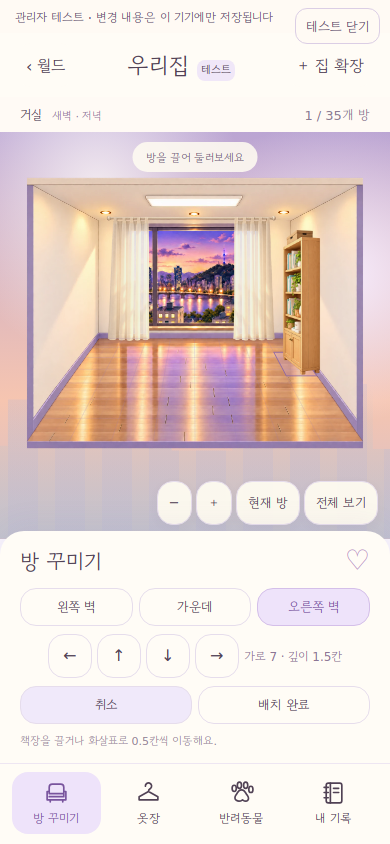
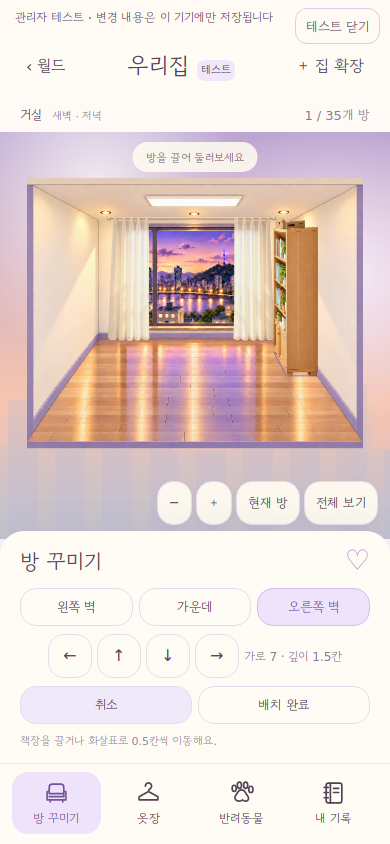
Project bookshelf ground-contact edges onto the floor grid

Changed region(s): [[0.6769, 0.2464, 0.8308, 0.4621]]

diff --git a/house-test/style.css b/house-test/style.css
@@ -3,6 +3,6 @@
 .expansion-actions{grid-template-columns:repeat(4,1fr);margin-top:10px}.expansion-actions button{font-size:12px;min-height:44px;padding:6px}.row select{max-width:100%;padding:8px 12px;border:1px solid #e0d4e9;border-radius:12px;background:#fffdfa;color:#65526f;min-height:44px}.closet-preview p{white-space:pre-line}
 .symbol svg{display:block;margin:auto;width:28px;height:28px}nav svg{display:block;margin:auto;width:25px;height:25px}.dog:focus-visible{outline-offset:6px;border-radius:30px}
 /* Approved compact apartment, 8 × 7 cells. */
-#world{width:7075px;height:8288px}.room{width:1375px;height:1144px;outline:0;border-radius:0;background:transparent;box-shadow:none;overflow:visible}.room.selected{box-shadow:none}.room-bg{object-fit:contain;clip-path:inset(29px 17px 33px 17px)}.room.empty:before,.room.empty:after{display:none}.curtains{position:absolute;left:252px;top:156px;width:840px;height:560px;pointer-events:none;z-index:2}.bookshelf{position:absolute;overflow:hidden;transform-origin:0 0;border:0;border-radius:0;padding:0;min-height:0;background:transparent!important;touch-action:none;filter:drop-shadow(0 5px 4px #45322920)}.bookshelf img{position:absolute;width:1536px;height:1024px;max-width:none;pointer-events:none}.bookshelf:disabled{opacity:1}.bookshelf:focus-visible{outline:4px solid #b297c9;outline-offset:8px}.floor-grid{position:absolute;inset:0;width:1375px;height:1144px;z-index:3;pointer-events:none}.floor-grid path{fill:none;stroke:#9a79b7;stroke-width:2;opacity:.35}.floor-grid path.half{stroke-width:1;opacity:.22}.floor-grid polygon{fill:#c4a0e64a;stroke:#8560a8;stroke-width:3}.actor{bottom:192px;z-index:1100}.ball{bottom:192px;z-index:1101}.heart{bottom:300px;z-index:1102}.expansion{width:1375px;height:1082px;top:29px}.directions{display:flex;gap:6px;margin-bottom:8px}.directions button{flex:1;min-height:38px;padding:6px;font-size:13px}.move-controls{display:flex;align-items:center;justify-content:center;gap:5px;flex-wrap:wrap;margin-bottom:8px}.move-controls button{min-width:44px}.position{font-size:12px;color:#8d7694}.panel-note{font-size:11px}#period-name{color:#937b9d;font-size:11px}.scene-heading{background:#fffaf5}.panel-head small{display:none}.panel-head{margin-bottom:10px}#panel{padding-top:13px;padding-bottom:13px}#hint{top:10px;font-size:11px}.camera{bottom:14px}html[data-period=dusk] #viewport{background:linear-gradient(#bba5d3,#f6c5b0 66%,#d0becb)}html[data-period=night] #viewport{background:linear-gradient(#30344f,#686087 68%,#494e6a)}html[data-period=night] .curtains,html[data-period=night] .bookshelf{filter:brightness(.76) saturate(.8)}html[data-period=dusk] .curtains,html[data-period=dusk] .bookshelf{filter:sepia(.12) brightness(.95)}
+#world{width:7075px;height:8288px}.room{width:1375px;height:1144px;outline:0;border-radius:0;background:transparent;box-shadow:none;overflow:visible}.room.selected{box-shadow:none}.room-bg{object-fit:contain;clip-path:inset(29px 17px 33px 17px)}.room.empty:before,.room.empty:after{display:none}.curtains{position:absolute;left:252px;top:156px;width:840px;height:560px;pointer-events:none;z-index:2}.bookshelf{position:absolute;overflow:visible;transform-origin:0 0;border:0;border-radius:0;padding:0;min-height:0;background:transparent!important;touch-action:none;filter:drop-shadow(0 5px 4px #45322920)}.bookshelf img{position:absolute;left:0;top:0;width:1536px;height:1024px;max-width:none;pointer-events:none;transform-origin:0 0}.bookshelf:disabled{opacity:1}.bookshelf:focus-visible{outline:4px solid #b297c9;outline-offset:8px}.floor-grid{position:absolute;inset:0;width:1375px;height:1144px;z-index:3;pointer-events:none}.floor-grid path{fill:none;stroke:#9a79b7;stroke-width:2;opacity:.35}.floor-grid path.half{stroke-width:1;opacity:.22}.floor-grid polygon{fill:#c4a0e64a;stroke:#8560a8;stroke-width:3}.actor{bottom:192px;z-index:1100}.ball{bottom:192px;z-index:1101}.heart{bottom:300px;z-index:1102}.expansion{width:1375px;height:1082px;top:29px}.directions{display:flex;gap:6px;margin-bottom:8px}.directions button{flex:1;min-height:38px;padding:6px;font-size:13px}.move-controls{display:flex;align-items:center;justify-content:center;gap:5px;flex-wrap:wrap;margin-bottom:8px}.move-controls button{min-width:44px}.position{font-size:12px;color:#8d7694}.panel-note{font-size:11px}#period-name{color:#937b9d;font-size:11px}.scene-heading{background:#fffaf5}.panel-head small{display:none}.panel-head{margin-bottom:10px}#panel{padding-top:13px;padding-bottom:13px}#hint{top:10px;font-size:11px}.camera{bottom:14px}html[data-period=dusk] #viewport{background:linear-gradient(#bba5d3,#f6c5b0 66%,#d0becb)}html[data-period=night] #viewport{background:linear-gradient(#30344f,#686087 68%,#494e6a)}html[data-period=night] .curtains,html[data-period=night] .bookshelf{filter:brightness(.76) saturate(.8)}html[data-period=dusk] .curtains,html[data-period=dusk] .bookshelf{filter:sepia(.12) brightness(.95)}
 @media(min-width:900px){#app{max-width:1050px}.room-bg{filter:drop-shadow(0 15px 20px #49385320)}}
 @media(max-height:550px) and (min-width:600px){.directions{margin:0 0 4px}.directions button{min-height:30px;font-size:11px}.move-controls{margin:3px 0}.move-controls button{min-height:30px;padding:3px}.position{font-size:10px}}

diff --git a/house-test/app.js b/house-test/app.js
@@ -1,5 +1,6 @@
-import {icon} from './icons.js?v=20261001-4';
-import {normalize,roomKey,canAdd,normalizeShelf,shelfSize,floorPoint,floorCell,roomPeriod,ROOM} from './model.js?v=20261001-4';
+import {icon} from './icons.js?v=20261001-5';
+import {normalize,roomKey,canAdd,normalizeShelf,shelfSize,floorPoint,floorCell,roomPeriod,ROOM} from './model.js?v=20261001-5';
+import {renderShelf} from './furniture.js?v=20261001-5';
 const $=s=>document.querySelector(s),view=$('#viewport'),world=$('#world');
 const stepX=ROOM.width+40,stepY=ROOM.height+40,reduced=matchMedia('(prefers-reduced-motion: reduce)').matches;
 let state,port,key,initialized=false,selected='0:0',tab='room',expanding=false,scale=1,pan={x:0,y:0},actorX=420,dogX=700,follow=false,raf=0,motion=null,timer,saveFailed=false;
@@ -59,9 +60,8 @@ function updatePeriod(){const next=roomPeriod();document.documentElement.dataset
 function startPlacement(){editing=true;draft={...(current().shelf||{x:7,y:1.5,direction:'right'})};renderWorld();renderPanel();}
 function finishPlacement(commit){if(commit){current().shelf={...draft};save();}editing=false;draft=null;renderWorld();renderPanel();toast(commit?'책장을 배치했어요.':'이전 배치로 돌아왔어요.');}
 function moveShelf(dx,dy){draft=normalizeShelf({...draft,x:draft.x+dx,y:draft.y+dy});renderWorld();renderPanel();}
-const crops={left:{x:210,y:26,w:240,h:928},center:{x:614,y:32,w:308,h:900},right:{x:1084,y:24,w:244,h:932}};
-function shelfStyle(button,s){const {w,d}=shelfSize(s.direction),foot=floorPoint(s.x+w/2,s.y+d),c=crops[s.direction],height=510+((s.y+d)/7)*150,ratio=height/c.h;button.style.left=(foot.x-c.w*ratio/2)+'px';button.style.top=(foot.y-height)+'px';button.style.width=c.w+'px';button.style.height=c.h+'px';button.style.transform=`scale(${ratio})`;button.style.zIndex=String(10+Math.round(foot.y));button.dataset.x=s.x;button.dataset.y=s.y;button.dataset.direction=s.direction;const im=button.querySelector('img');im.style.left=-c.x+'px';im.style.top=-c.y+'px';}
-function makeShelf(s,active){const button=element('button','bookshelf');button.type='button';button.setAttribute('aria-label','책장 배치 변경');button.disabled=!active||expanding;const im=element('img');im.src='assets/bookshelf-views.webp';im.alt='원목 책장';im.draggable=false;button.append(im);shelfStyle(button,s);button.onclick=()=>{if(!editing){setTab('room');startPlacement();}};if(active)button.addEventListener('pointerdown',e=>{if(!editing||e.button>0)return;e.stopPropagation();const start=point(e),original={...draft},b=bounds(current()),{w,d}=shelfSize(draft.direction),anchor=floorPoint(draft.x+w/2,draft.y+d),startCell=floorCell(anchor.x,anchor.y);button.setPointerCapture(e.pointerId);
+const shelfStyle=renderShelf;
+function makeShelf(s,active){const button=element('button','bookshelf');button.type='button';button.setAttribute('aria-label','책장 배치 변경');button.disabled=!active||expanding;shelfStyle(button,s);button.onclick=()=>{if(!editing){setTab('room');startPlacement();}};if(active)button.addEventListener('pointerdown',e=>{if(!editing||e.button>0)return;e.stopPropagation();const start=point(e),original={...draft},b=bounds(current()),{w,d}=shelfSize(draft.direction),anchor=floorPoint(draft.x+w/2,draft.y+d),startCell=floorCell(anchor.x,anchor.y);button.setPointerCapture(e.pointerId);
  const drag=ev=>{const p=point(ev),cell=floorCell(anchor.x+(p.x-start.x)/scale,anchor.y+(p.y-start.y)/scale);draft=normalizeShelf({...original,x:original.x+cell.x-startCell.x,y:original.y+cell.y-startCell.y});shelfStyle(button,draft);const grid=button.parentElement.querySelector('.floor-grid');if(grid)grid.replaceWith(makeGrid(draft));$('#shelf-position').textContent=`가로 ${draft.x} · 깊이 ${draft.y}칸`;};
  const up=ev=>{button.removeEventListener('pointermove',drag);button.removeEventListener('pointerup',up);button.removeEventListener('pointercancel',cancel);if(button.hasPointerCapture(ev.pointerId))button.releasePointerCapture(ev.pointerId);};const cancel=ev=>{draft=original;shelfStyle(button,draft);up(ev);renderWorld();renderPanel();};button.addEventListener('pointermove',drag);button.addEventListener('pointerup',up);button.addEventListener('pointercancel',cancel);
  });return button;}

diff --git a/house-test/furniture.js b/house-test/furniture.js
@@ -1,0 +1,61 @@
+import {floorPoint,roomPoint,shelfSize} from './model.js?v=20261001-5';
+
+// Contact corners are measured on the approved atlas, excluding transparent
+// padding. Each wooden plane is projected separately so verticals stay upright
+// while both bottom edges follow the room's perspective at every placement.
+const atlas={
+ left:[
+  {source:[[216,94],[330,73],[330,946],[216,935]],clip:[[210,26],[330,26],[330,954],[210,954]],corners:[3,2]},
+  {source:[[330,73],[442,121],[442,853],[330,946]],clip:[[330,26],[450,26],[450,954],[330,954]],corners:[2,1]}
+ ],
+ center:[
+  {source:[[620,94],[916,94],[916,922],[620,922]],clip:[[614,32],[922,32],[922,932],[614,932]],corners:[3,2]}
+ ],
+ right:[
+  {source:[[1092,121],[1206,73],[1206,946],[1092,853]],clip:[[1084,24],[1206,24],[1206,956],[1084,956]],corners:[0,3]},
+  {source:[[1206,73],[1320,94],[1320,935],[1206,946]],clip:[[1206,24],[1328,24],[1328,956],[1206,956]],corners:[3,2]}
+ ]
+};
+export function projectiveMap(source,target){
+ const rows=[];
+ for(let i=0;i<4;i++){
+  const [x,y]=source[i],{x:u,y:v}=target[i];
+  rows.push([x,y,1,0,0,0,-u*x,-u*y,u],[0,0,0,x,y,1,-v*x,-v*y,v]);
+ }
+ for(let col=0;col<8;col++){
+  let pivot=col;for(let row=col+1;row<8;row++)if(Math.abs(rows[row][col])>Math.abs(rows[pivot][col]))pivot=row;
+  [rows[col],rows[pivot]]=[rows[pivot],rows[col]];
+  const divisor=rows[col][col];if(Math.abs(divisor)<1e-10)return null;
+  for(let j=col;j<=8;j++)rows[col][j]/=divisor;
+  for(let row=0;row<8;row++)if(row!==col){const factor=rows[row][col];for(let j=col;j<=8;j++)rows[row][j]-=factor*rows[col][j];}
+ }
+ return [...rows.map(row=>row[8]),1];
+}
+export function transformPoint(m,[x,y]){const w=m[6]*x+m[7]*y+m[8];return {x:(m[0]*x+m[1]*y+m[2])/w,y:(m[3]*x+m[4]*y+m[5])/w};}
+export function cssMatrix(m){return `matrix3d(${[m[0],m[3],0,m[6],m[1],m[4],0,m[7],0,0,1,0,m[2],m[5],0,m[8]].join(',')})`;}
+export function shelfGeometry(s){
+ const {w,d}=shelfSize(s.direction),cells=[[s.x,s.y],[s.x+w,s.y],[s.x+w,s.y+d],[s.x,s.y+d]];
+ const footprint=cells.map(([x,y])=>floorPoint(x,y)),top=cells.map(([x,y])=>roomPoint(x,y,4.8));
+ const faces=atlas[s.direction].map(face=>{
+  const [a,b]=face.corners,target=[top[a],top[b],footprint[b],footprint[a]];
+  const matrix=projectiveMap(face.source,target);
+  return {...face,target,matrix,outline:matrix?face.clip.map(p=>transformPoint(matrix,p)):[]};
+ });
+ const points=faces.flatMap(face=>face.outline),left=Math.min(...points.map(p=>p.x)),right=Math.max(...points.map(p=>p.x)),upper=Math.min(...points.map(p=>p.y)),bottom=Math.max(...points.map(p=>p.y));
+ return {footprint,faces,left,top:upper,width:right-left,height:bottom-upper};
+}
+export function renderShelf(button,s){
+ const geometry=shelfGeometry(s);
+ Object.assign(button.style,{left:`${geometry.left}px`,top:`${geometry.top}px`,width:`${geometry.width}px`,height:`${geometry.height}px`,zIndex:String(10+Math.round(Math.max(...geometry.footprint.map(p=>p.y))))});
+ button.dataset.x=s.x;button.dataset.y=s.y;button.dataset.direction=s.direction;
+ button.replaceChildren();
+ for(const face of geometry.faces){
+  if(!face.matrix)continue;
+  const image=document.createElement('img');image.src='assets/bookshelf-views.webp';image.alt='';image.draggable=false;image.className='bookshelf-face';
+  const local=face.target.map(p=>({x:p.x-geometry.left,y:p.y-geometry.top}));
+  image.style.transform=cssMatrix(projectiveMap(face.source,local));
+  image.style.clipPath=`polygon(${face.clip.map(([x,y])=>`${x}px ${y}px`).join(',')})`;
+  button.append(image);
+ }
+ return geometry;
+}

diff --git a/house-test/index.html b/house-test/index.html
@@ -1,5 +1,5 @@
 <!doctype html>
-<html lang="ko"><head><meta charset="utf-8"><meta name="viewport" content="width=device-width,initial-scale=1,viewport-fit=cover"><title>우리집 테스트</title><link rel="stylesheet" href="style.css?v=20261001-4"></head>
+<html lang="ko"><head><meta charset="utf-8"><meta name="viewport" content="width=device-width,initial-scale=1,viewport-fit=cover"><title>우리집 테스트</title><link rel="stylesheet" href="style.css?v=20261001-5"></head>
 <body><section id="locked"><h1>우리집 테스트</h1><p>월드 관리자 모드에서 열어 주세요.</p><a href="/world.html">월드로 돌아가기</a></section>
 <main id="app" hidden>
 <header><button id="exit" aria-label="테스트 닫기">‹ <span>월드</span></button><h1>우리집 <small>테스트</small></h1><button id="expand" aria-pressed="false">＋ 집 확장</button></header>
@@ -8,4 +8,4 @@
 <section id="panel" aria-label="선택한 기능"><div class="panel-head"><div><small>우리집에서 함께</small><h2 id="panel-title">방 꾸미기</h2></div><span class="pet-face" aria-hidden="true">♡</span></div><div id="panel-body"></div></section>
 <nav aria-label="우리집 메뉴"><button data-tab="room" aria-pressed="true"><span>▧</span>방 꾸미기</button><button data-tab="closet"><span>♧</span>옷장</button><button data-tab="pet"><span>♧</span>반려동물</button><button data-tab="diary"><span>▤</span>내 기록</button></nav>
 <div id="notice" role="status" aria-live="polite"></div><p id="save-warning" hidden role="status">이 브라우저에서는 테스트 내용을 저장할 수 없어요.</p>
-</main><script type="module" src="app.js?v=20261001-4"></script></body></html>
+</main><script type="module" src="app.js?v=20261001-5"></script></body></html>

diff --git a/house-test/host.js b/house-test/host.js
@@ -6,7 +6,7 @@ export function openHouseTest({owner,authorized}){
  Object.assign(overlay.style,{position:'fixed',inset:'0',zIndex:'10000',background:'#f8f2fc',display:'flex',flexDirection:'column'});
  const status=document.createElement('div');status.textContent='우리집을 준비하고 있어요…';Object.assign(status.style,{padding:'8px 110px 8px 15px',fontSize:'12px',color:'#65526f',background:'#fffaf4'});
  const close=document.createElement('button');close.textContent='테스트 닫기';close.style.cssText='position:absolute;right:10px;top:8px;z-index:2;border:1px solid #dbcee5;background:#fffaf4;color:#65526f;border-radius:12px;padding:6px 10px;min-height:36px;cursor:pointer';
- const frame=document.createElement('iframe');frame.title='새 우리집 플레이 테스트';frame.src=new URL('./index.html?v=20261001-4',import.meta.url).href;frame.style.cssText='width:100%;flex:1;border:0;min-height:0';
+ const frame=document.createElement('iframe');frame.title='새 우리집 플레이 테스트';frame.src=new URL('./index.html?v=20261001-5',import.meta.url).href;frame.style.cssText='width:100%;flex:1;border:0;min-height:0';
  overlay.append(status,close,frame);document.body.append(overlay);document.body.style.overflow='hidden';close.focus();
  let channel=null,closed=false;
  function cleanup(){if(closed)return;closed=true;clearInterval(watcher);clearTimeout(deadline);channel?.port1.postMessage({type:'dispose'});channel?.port1.close();overlay.remove();document.body.style.overflow=oldOverflow;window.removeEventListener('keydown',escape,true);if(lastFocus?.isConnected)lastFocus.focus();if(activeClose===cleanup)activeClose=null;}

diff --git a/house-test/model.js b/house-test/model.js
@@ -26,6 +26,11 @@ export function floorPoint(x,y){
  const u=x/FLOOR.width,v=y/FLOOR.depth,w=G*u+H*v+1;
  return {x:(A*u+B*v+C)/w,y:(D*u+E*v+F)/w};
 }
+// Furniture shares the floor camera: height changes only the vertical numerator.
+export function roomPoint(x,y,z=0){
+ const p=floorPoint(x,y),w=G*x/FLOOR.width+H*y/FLOOR.depth+1;
+ return {x:p.x,y:p.y-z*(p1.x-p0.x)/FLOOR.width/w};
+}
 export function floorCell(x,y){
  const a=A-x*G,b=B-x*H,c=x-C,d=D-y*G,e=E-y*H,f=y-F,det=a*e-b*d;
  if(!Number.isFinite(det)||Math.abs(det)<1e-8)return {x:4,y:0};

diff --git a/house-test/README.md b/house-test/README.md
@@ -11,7 +11,7 @@ The approved empty-room shell is 1375×1144, with both side walls extended all t
 - 08:00–18:00: day.
 - 20:00–06:00: night.
 
-Floor: 8 × 7 cells, half-cell movement. Its projective transform is calibrated to the four wall/floor corners and covers the full floor depth, with no front apron. Current-room framing reserves space on both sides. Bookshelf: 2 × 1 cells front-facing, 1 × 2 cells at side-wall angles. Dragging and arrow controls use the same projected floor and snap/clamp function. Editing is a draft until **배치 완료**; cancellation and leaving the editor discard it. Curtains can be shown/removed independently. **빈방 보기** removes furniture only in the test save; approved room geometry never changes.
+Floor: 8 × 7 cells, half-cell movement. Its projective transform is calibrated to the four wall/floor corners and covers the full floor depth, with no front apron. Current-room framing reserves space on both sides. Bookshelf: 2 × 1 cells front-facing, 1 × 2 cells at side-wall angles. Furniture ground-contact corners and each visible face use that same projective camera; the atlas is no longer positioned by its bottom-center bounding box. Each face is mapped separately so both ground edges coincide with the grid and verticals remain upright. Dragging and arrow controls use the same projected floor and snap/clamp function. Editing is a draft until **배치 완료**; cancellation and leaving the editor discard it. Curtains can be shown/removed independently. **빈방 보기** removes furniture only in the test save; approved room geometry never changes.
 
 Starter room is centered (0,0); x −2…2, y −3…3, at most 35 rooms. Add only beside an existing connected room. Expansion, curtains, bookshelf and diary persist per account on this device, under `ojjuda-house-playtest-v1:<owner>`; internal schema is version 2 and upgrades older prototype saves. No production ownership, wallet, profile or diary is changed.
 
@@ -21,8 +21,8 @@ The iframe remains locked until a same-origin parent passes a MessagePort. World
 
 ## Art
 
-Built-in image generation, October 1 2026, converted to WebP preserving alpha. Room sources: approved extended-wall/rectangular-light dusk `exec-90f1e942`, matching day `exec-92c72491`, matching night `exec-3622f1ed`; ivory curtains `exec-88c7321c`. Bookshelf sheet `exec-65e7e116` is a background extraction of approved three-view `exec-1d049926`. CSS viewports select the three sprites, without altering their camera angles. No baked-in UI or whole furnished mockup is used.
+Built-in image generation, October 1 2026, converted to WebP preserving alpha. Room sources: approved extended-wall/rectangular-light dusk `exec-90f1e942`, matching day `exec-92c72491`, matching night `exec-3622f1ed`; ivory curtains `exec-88c7321c`. Bookshelf sheet `exec-65e7e116` is a background extraction of approved three-view `exec-1d049926`. Calibrated front/side planes from the three-view atlas are projected onto the exact 2×1 / 1×2-cell footprint, including perspective height. The source atlas is unchanged. No baked-in UI or whole furnished mockup is used.
 
 Bookshelf extraction prompt: remove background and labels only; preserve all three cabinets, directions, proportions, contents and materials; transparent non-overlapping sheet, no floor or exterior shadows.
 
-Validation: `node tests/house-playtest-ui.test.cjs` covers Korea clock boundaries and live switching, directions, half-cell placement, cancellation/persistence, curtains, expansion, mobile gestures, role/account isolation and responsive layouts. Existing World admin-refresh/navigation gates remain required.
+Validation: `node tests/house-playtest-ui.test.cjs` checks visible CSS-transformed contact pixels against the grid in all three directions, all 499 legal half-cell placements, Korea clock boundaries and live switching, directions, half-cell placement, cancellation/persistence, curtains, expansion, mobile gestures, role/account isolation and responsive layouts. Existing World admin-refresh/navigation gates remain required.
